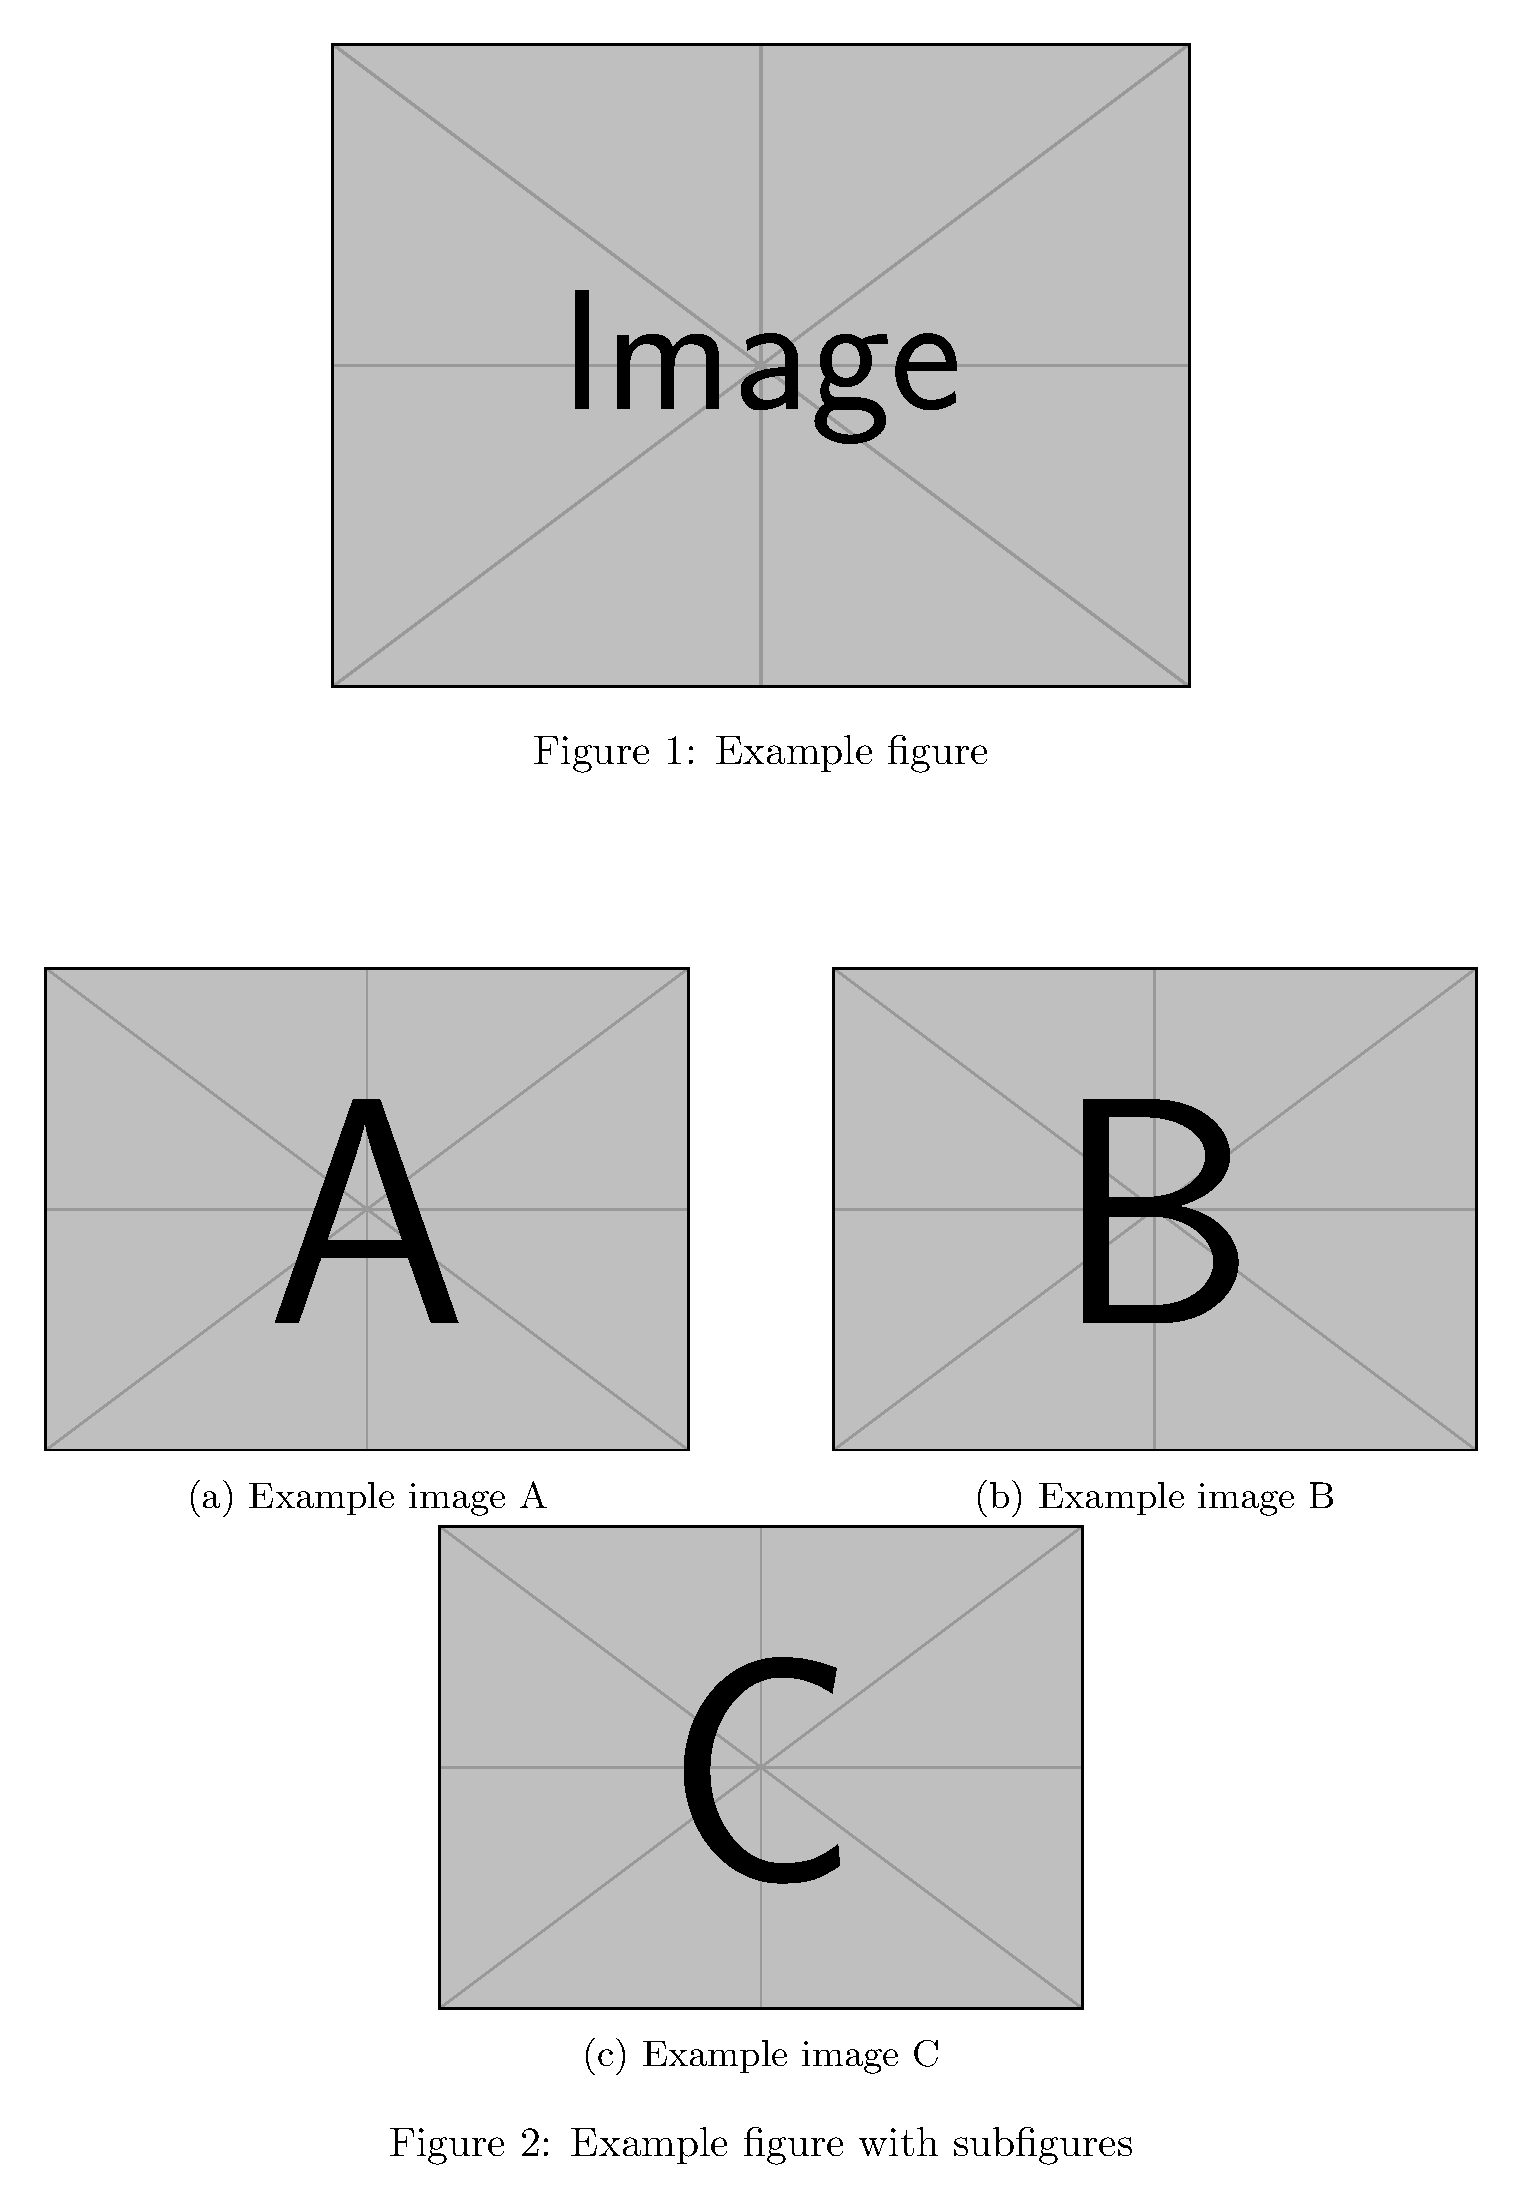
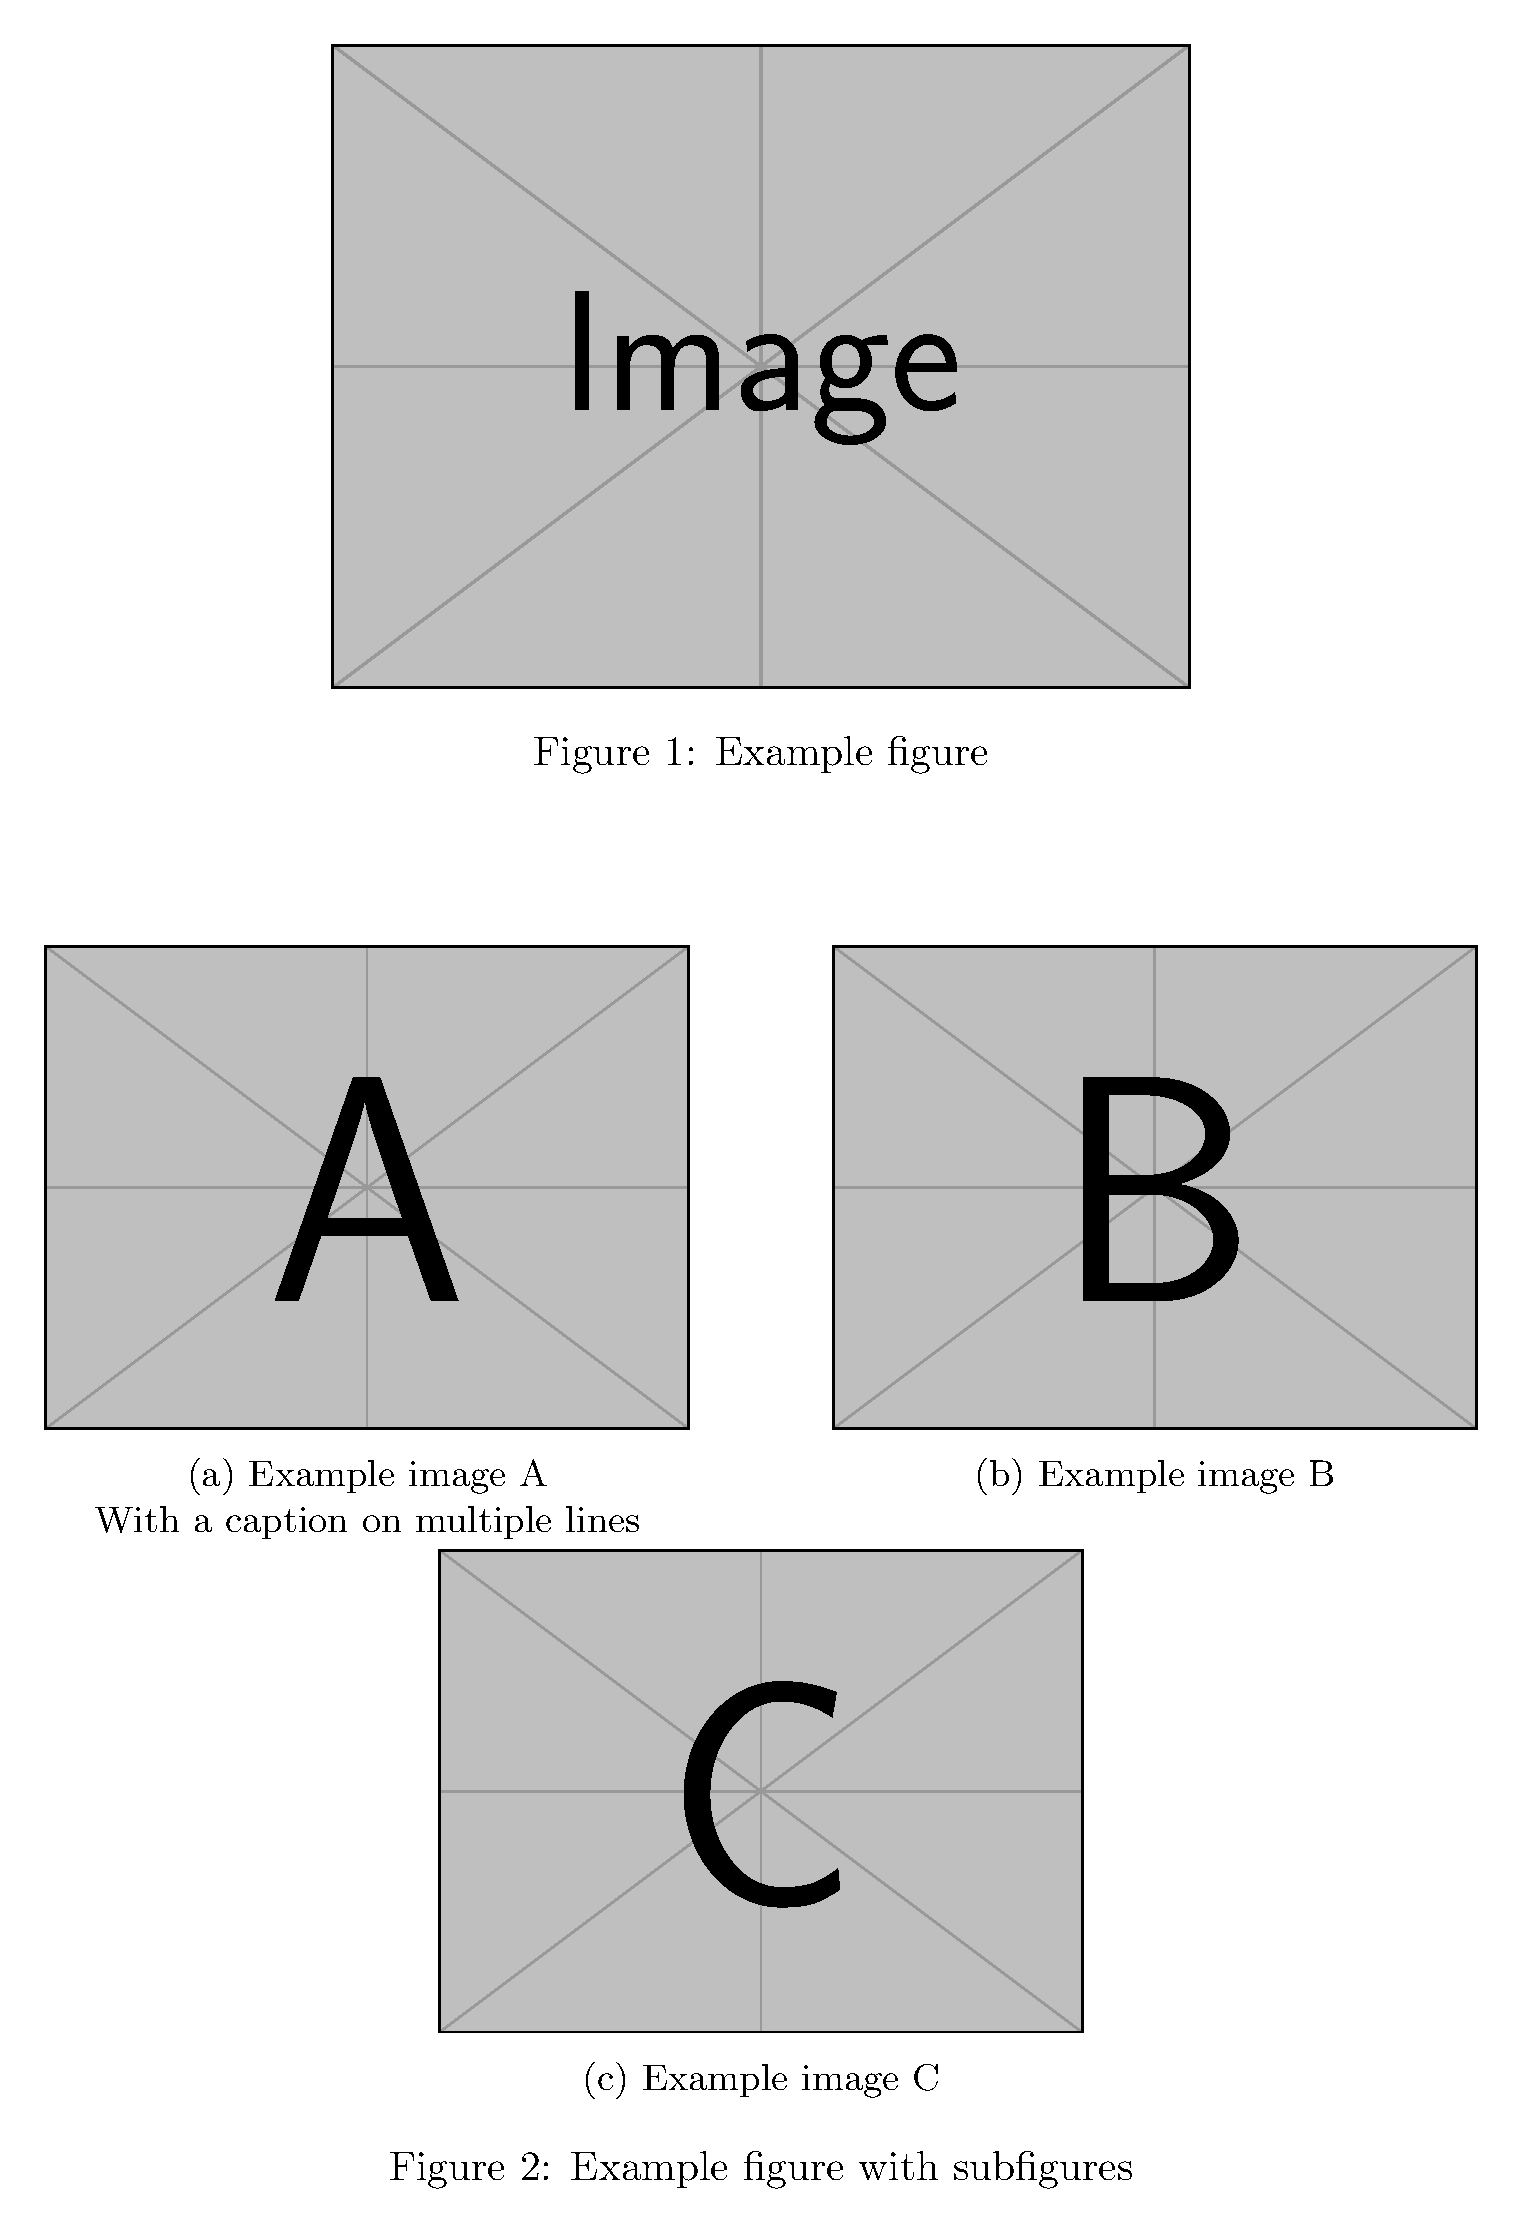
Include in example how to align images with captions which have different numbers of lines

diff --git a/topics/latex/Examples/figures.tex b/topics/latex/Examples/figures.tex
@@ -17,14 +17,15 @@
 
 \begin{figure}
     \centering
-    \begin{subfigure}{0.45\textwidth}
+    \captionsetup[subfigure]{justification=centering}
+    \begin{subfigure}[t]{0.45\textwidth}
         \centering
         \includegraphics[width=\textwidth]{example-image-a}
-        \caption{Example image A}
+        \caption{Example image A \\ With a caption on multiple lines}
         \label{fig:example A}
     \end{subfigure}
     \hfill
-    \begin{subfigure}{0.45\textwidth}
+    \begin{subfigure}[t]{0.45\textwidth}
         \centering
         \includegraphics[width=\textwidth]{example-image-b}
         \caption{Example image B}

diff --git a/topics/latex/.notes_on_latex.md b/topics/latex/.notes_on_latex.md
@@ -175,19 +175,20 @@ Within a document, the following is a template for adding a figure with a single
 \end{figure}
 ```
 
-The following is a template for adding a figure with subfigures:
+Shown below is a template for adding a figure with subfigures. Note that `[t]` after `\begin{subfigure}` is optional, and is used to vertically align the tops of the figures, which is useful when the image captions have different numbers of lines. Other options are `[m]` and `[b]` to align the middles and bottoms of the figures respectively.
 
 ```tex
 \begin{figure}
     \centering
-    \begin{subfigure}{0.45\textwidth}
+    \captionsetup[subfigure]{justification=centering}
+    \begin{subfigure}[t]{0.45\textwidth}
         \centering
         \includegraphics[width=\textwidth]{example-image-a}
-        \caption{Example image A}
+        \caption{Example image A \\ With a caption on multiple lines}
         \label{fig:example A}
     \end{subfigure}
     \hfill
-    \begin{subfigure}{0.45\textwidth}
+    \begin{subfigure}[t]{0.45\textwidth}
         \centering
         \includegraphics[width=\textwidth]{example-image-b}
         \caption{Example image B}
